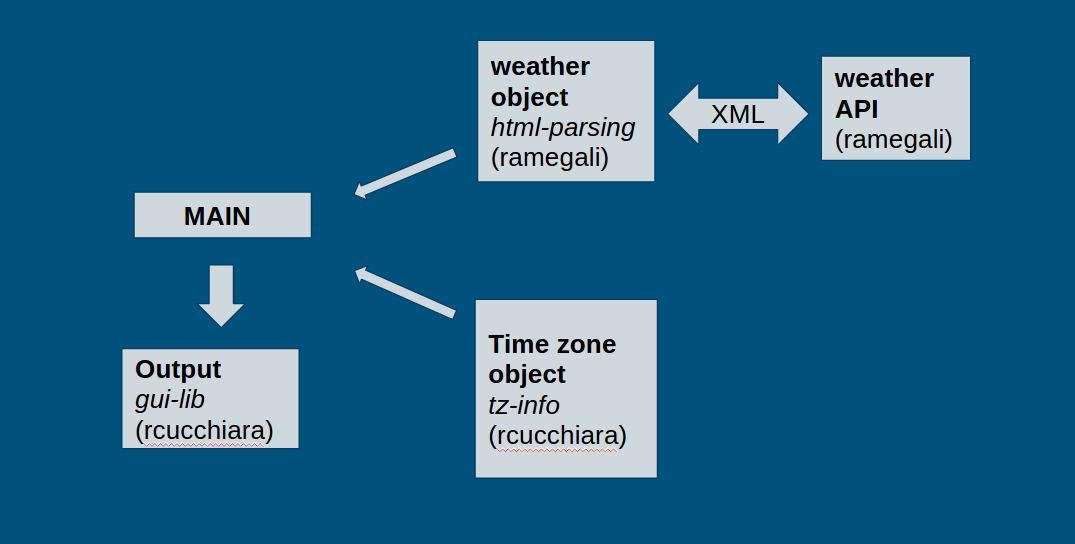
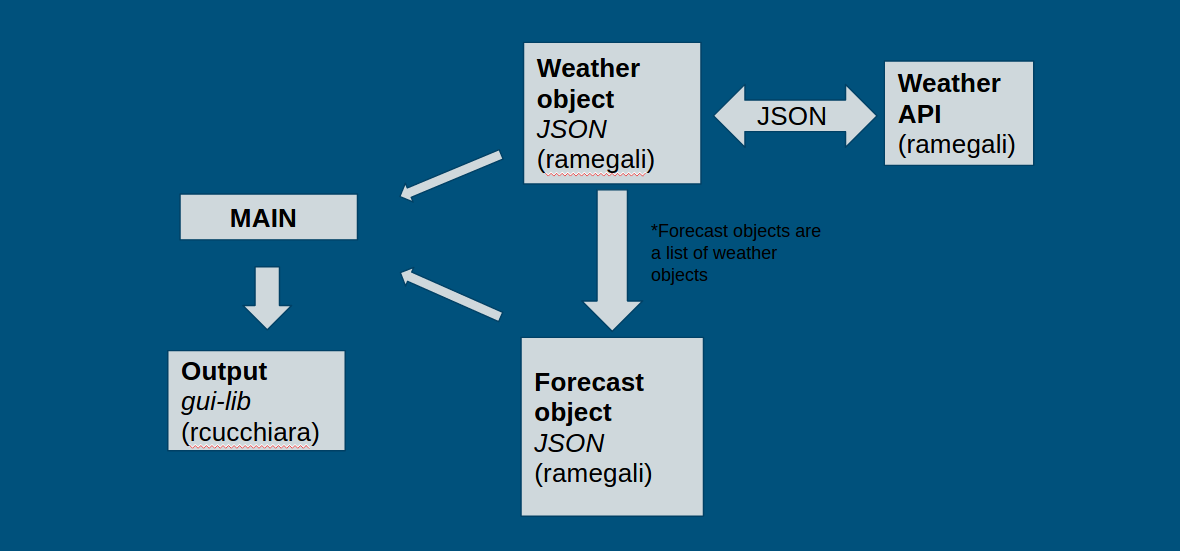
finished building forecast object, and modified main accordingly. Updated README.

Changed region(s): [[0.1228, 0.0625, 0.9209, 0.9375], [0.0921, 0.625, 0.307, 0.8438], [0.1842, 0.4688, 0.2456, 0.5938]]

diff --git a/README.md b/README.md
@@ -2,57 +2,54 @@
 
 ### Statement
 
-Project revolves around implementing a program that will not only give you relevant time and date information, but weather forecast as well in a practical and useful way. We hope to learn more about APIs, information parsing, and web development in general, and that's why this project is interesting on a personal level.
+Project revolves around implementing a program that gives you relevant weather data and forecast in a practical and useful way. We hope to learn more about APIs, GUI, and information parsing, and that's why this project is interesting on a personal level.
 
 ### Analysis
 
 - DATA ABSTRACTION: getting weather from websites/APIs 
-- OOP/state-modification: Create a weather object and time object and have them do everything.
-- RECURSION: Planning on using recursion to display weather data taken from a list. I'm sure there are other things.
+- OOP/state-modification: Create weather objects and have them do all the work.
+- RECURSION: Use recursion to create and display weather data taken from a list.
 
 
 ### External Technologies
-We plan on using a weather API to provide relevant weather information and parsing the information appropriately.
-We are also going to explore Google Geolocation API with the purpose of displaying the weather near the users current location.
+We used a weather API to provide relevant weather information so we can parse through the information appropriately.
 
 ### Data Sets or other Source Materials
-We will be working with data from APIs that were made available to us. 
+We will be working with data from APIs that were made available to us with the help of racket's net/url library.
 
-**Here's an example of XML data we got from a weather API**
+**Here's an example of JSON data we got from a weather API**
+```
+{"coord":{"lon":-71.76,"lat":42.53},"weather":[{"id":500,"main":"Rain","description":"light rain","icon":"10d"}],"base":"stations","main":{"temp":45.5,"pressure":1013,"humidity":81,"temp_min":44.6,"temp_max":48.2},"visibility":16093,"wind":{"speed":5.82,"deg":20},"clouds":{"all":90},"dt":1492883760,"sys":{"type":1,"id":1298,"message":0.0051,"country":"US","sunrise":1492854802,"sunset":1492904281},
+"id":4941873,"name":"Leominster","cod":200}
+```
+
+**which was then turned into a string**
 
 ```
-<forecast>
- <time from="2017-04-02T15:00:00" to="2017-04-02T18:00:00">
-  <symbol number="800" name="clear sky" var="02d"/>
-  <precipitation/>
-  <windDirection deg="315.002" code="NW" name="Northwest"/>
-  <windSpeed mps="3.27" name="Light breeze"/>
-  <temperature unit="kelvin" value="284.13" min="283.247" max="284.13"/>
-  <pressure unit="hPa" value="999.89"/>
-  <humidity value="50" unit="%"/>
-  <clouds value="clear sky" all="8" unit="%"/>
- </time>
-```
-We plan to parse through this kind of data to display relevant weather information using Racket's json-parsing library along with other libraries like xtml-parsing and the net/url library.
+#hasheq((wind . #hasheq((speed . 5.82) (deg . 20))) (visibility . 16093) (name . Leominster) (id . 4941873) (base . stations) (main . #hasheq((humidity . 81) (temp_min . 44.6) (temp_max . 48.2) (temp . 45.5) (pressure . 1013))) (coord . #hasheq((lon . -71.76) (lat . 42.53))) (weather . (#hasheq((id . 500) (description . light rain) (main . Rain) (icon . 10d)))) (sys . #hasheq((id . 1298) (type . 1) (country . US) (sunrise . 1492854802) (sunset . 1492904281) (message . 0.1601))) (dt . 1492883760) (clouds . #hasheq((all . 90))) (cod . 200))
 
-We also plan on using Google's Geolocation API once we figure out how to implement it. This will allow the application to get the user's location info, and then we use that to get the weather from our other API.
+```
+We parse through this string to display relevant weather information using mostly hash-table referencing techniques.
+This creates a single weather object. A forecast is created from a list of weather objects, each with their own weather information.
 
 
 ### Deliverable and Demonstration
 
-We will have an application that will deliver date, time, current weather, and forecast. As for interactions, maybe have charts/graphs that are interactive, as well as being able to switch from five (eight?) day forecast to detailed single day forecast.
+We have an application that will deliver date, time, current weather, and forecast. You can interact and request weather from different areas, as well as being able to switch from five day forecast to detailed single day forecast.
 
 ### Evaluation of Results
-**Success if:**
-- The weather and time can be gathered accurately depending on user's location.
+**Successfully implemented:**
+- The weather can be gathered and displayed accurately depending on user's location input.
 - Users can interact with it without having it break.
 
 ## Architecture Diagram
 ![alt tag](https://github.com/oplS17projects/Octo-Weather-5000/blob/master/arch-diagram.png)
 
-Main is the driver for this application that will create the output after collating it using the weather object. The weather object will be built by taking infomation from a weather API and assigning it to class variables. These variables will be used to store the appropriate information relevant to the user. 
+Main is the driver for this application that will create the output after collating it using the weather/forecast objects. The weather object will be built by taking infomation from a weather API and assigning it to class variables. These variables will be used to store the appropriate information relevant to the user. 
 
-After the weather object has been constructed, main will call an output function which will present the information to the user using a graphical user interface, calling on the weather object for its share of the work. In addition to that we will use tz-info to display the local time to the user. 
+After the weather object has been constructed, main will call an output function which will present the information to the user using a graphical user interface, calling on the weather object for its share of the work. 
+
+For the five day forecast, another object must be built, as the information from the API varies depending on weather we request current weather or a forecast. A Forecast object is then built by creating mutliple weather objects using recursion, and is then displayed appropriately as a five day forecast.
 
 ## Schedule
 
@@ -70,7 +67,7 @@ After the weather object has been constructed, main will call an output function
 ## Group Responsibilities
 
 ### Raphael Megali @ramegali
-will write the code necessary to get the relevant weather information extracted.
+wrote the code necessary to get the relevant weather information extracted. Wrote code for weather object and forecast object to hold extracted weather information.
 
 ### Rob Cucchiara @rcucchiara
 will take the retrieved weather data and present it in an appealing and compelling way.
